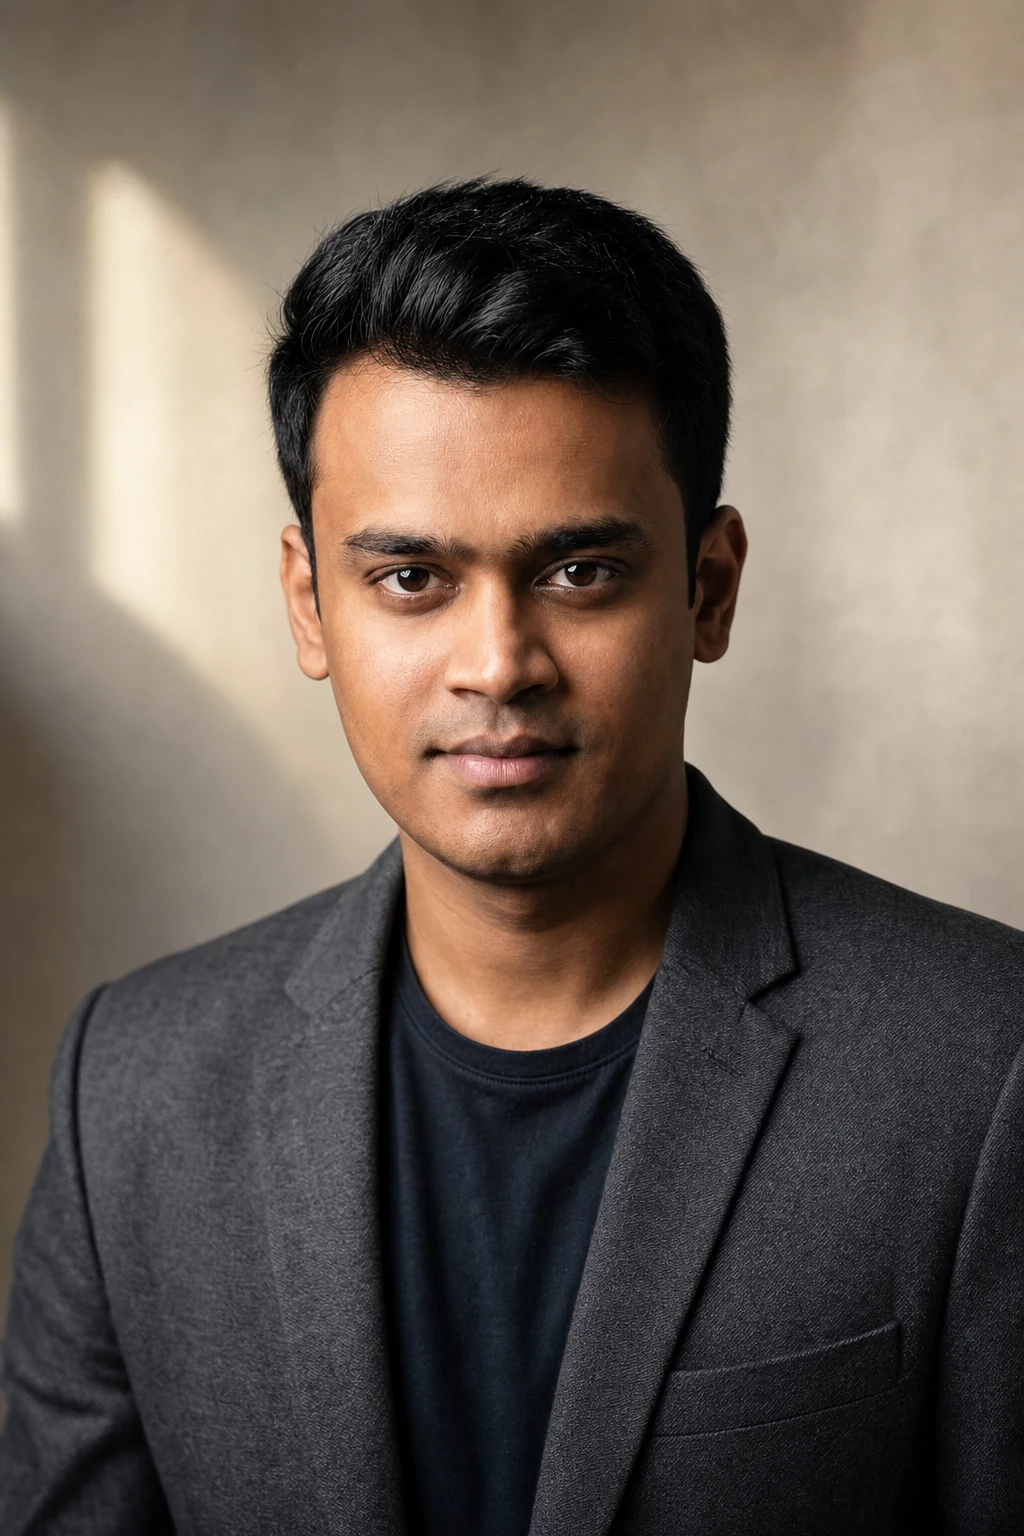
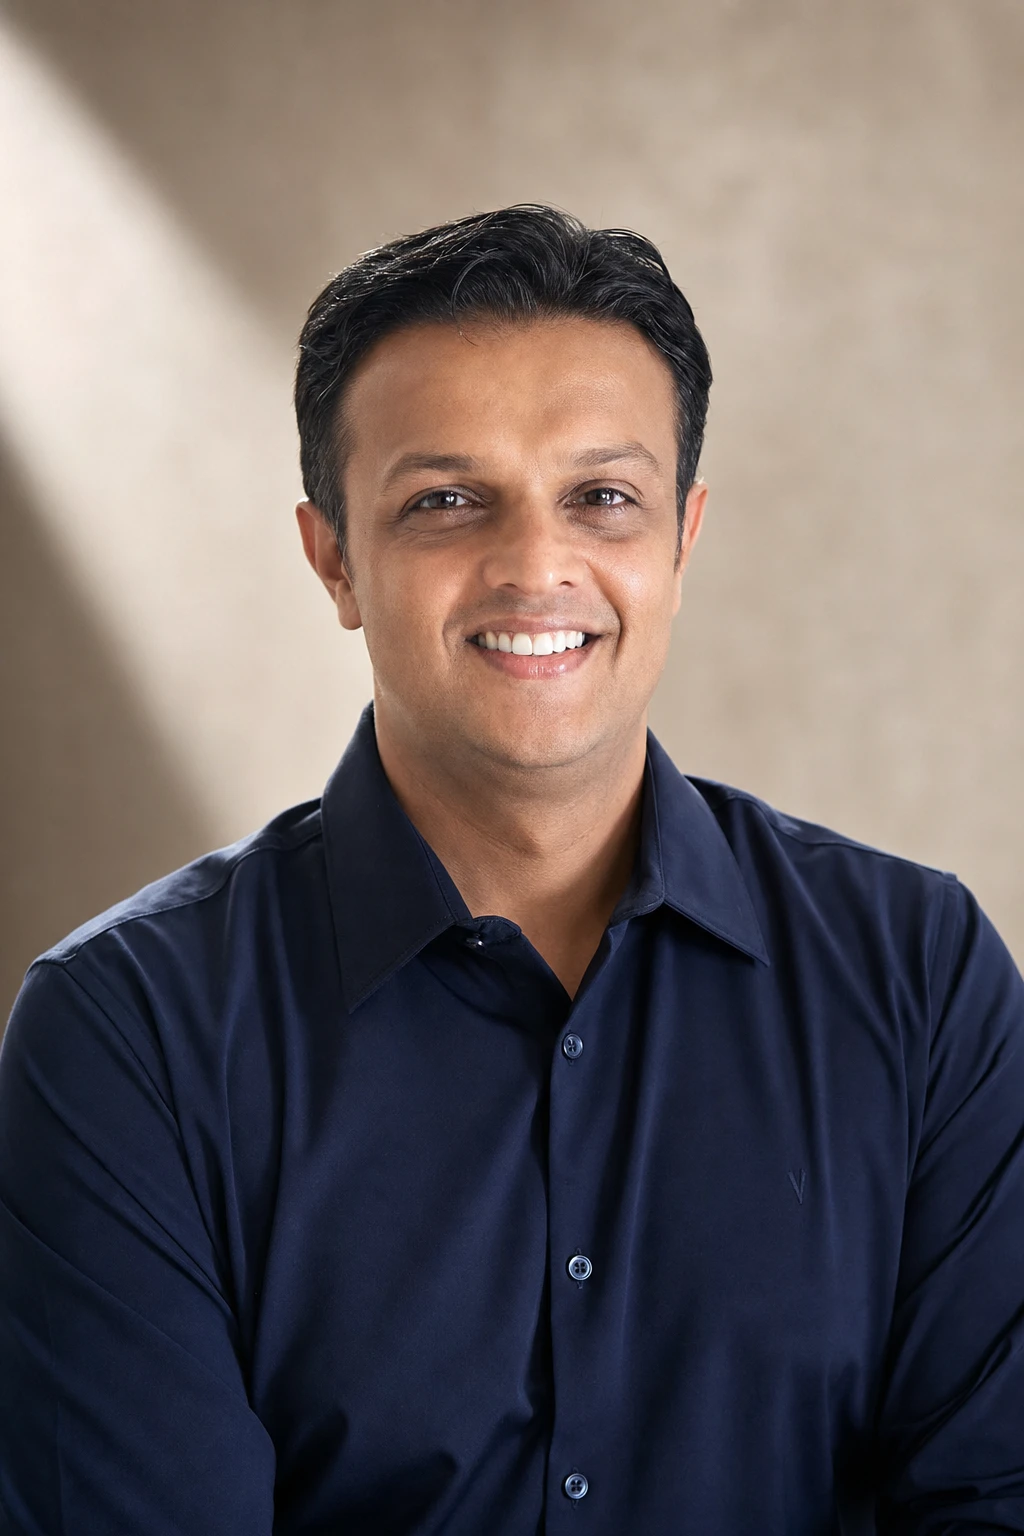
about: fix Jesal portraits — wrong source likeness in previous pass
The previous portraits were generated off the wrong source photo (a stand-
in headshot left in Downloads). Both .webp files have been regenerated
against Jesal's actual reference photo (navy button-down shirt, friendly
smile, marble lobby — kept locally in .assets/, not committed).

- gen_jesal_factory.py / gen_jesal_forbes.py: REFERENCE now points at
  jesal_source.jpg and the wardrobe prompt language is rewritten to
  describe the navy button-down + dark trousers + black belt instead of
  the previous charcoal-blazer-over-t-shirt mistake. The expression cue
  now anchors to the warm easy smile in the actual reference rather than
  to a "considered founder gaze".

- public/concepts/jesal_factory.webp / jesal_forbes.webp: refreshed.

diff --git a/scripts/gen_jesal_forbes.py b/scripts/gen_jesal_forbes.py
@@ -8,16 +8,20 @@ from _lib_openai_image import edit
 
 ROOT = os.path.abspath(os.path.join(os.path.dirname(__file__), ".."))
 
-REFERENCE = os.path.join(ROOT, ".assets", "jesal_source.png")
+REFERENCE = os.path.join(ROOT, ".assets", "jesal_source.jpg")
 OUT_PATH = os.path.join(ROOT, "src/frontend/public/concepts/jesal_forbes.webp")
 
 PROMPT = (
     "A Forbes-magazine cover-style editorial portrait of the same man as in the input photo. "
-    "His face, hair, build, skin tone, and identity are preserved exactly from the reference. "
-    "He wears the same charcoal-gray blazer over a dark t-shirt as in the reference.\n\n"
+    "His face, hair (short, brushed back), build (early-thirties Indian man, medium build), "
+    "skin tone, and identity are preserved exactly from the reference. He wears the same "
+    "dark navy button-down shirt with the collar open, exactly as in the reference photo. "
+    "The same warm friendly smile from the reference is preserved — open and approachable, "
+    "the eyes warm.\n\n"
     "Composition: tight three-quarter frame from chest up, eyes meeting the lens directly. "
-    "Expression: warm, intelligent, calmly confident — the considered gaze of a founder who is "
-    "talking about a long project, not posing. A faint, restrained smile, more in the eyes than the mouth.\n\n"
+    "Expression: the same warm easy smile as in the reference photo — confident, "
+    "approachable, the considered gaze of a founder who is comfortable in his own "
+    "company.\n\n"
     "Lighting: a single large soft-box positioned upper-left at about 45 degrees creates gentle "
     "modeling on the face with a clean catchlight in both eyes; a low-bounce fill from the right "
     "opens the shadow side without flattening; a subtle hair-light separates him cleanly from the background.\n\n"

diff --git a/scripts/gen_jesal_factory.py b/scripts/gen_jesal_factory.py
@@ -9,17 +9,20 @@ from _lib_openai_image import edit  # noqa: E402
 
 REPO = Path(__file__).resolve().parent.parent
 
-REFERENCE = REPO / ".assets" / "jesal_source.png"
+REFERENCE = REPO / ".assets" / "jesal_source.jpg"
 OUT_PATH = REPO / "src" / "frontend" / "public" / "concepts" / "jesal_factory.webp"
 
 PROMPT = (
     "A documentary editorial portrait of the same man as in the input photo, "
     "photographed inside a sophisticated water-technology factory floor that doubles "
     "as a small clean-room laboratory. The man stands three-quarter angle, centered, "
-    "with calm assured posture — one hand resting lightly on a polished stainless rail, "
-    "the other relaxed at his side. He wears the same charcoal-gray blazer over a dark "
-    "t-shirt as in the reference photo. His face, build, hair, skin tone, and overall "
-    "identity are preserved exactly from the reference.\n\n"
+    "with calm assured posture and a warm easy smile (matching his expression in the "
+    "reference) — one hand resting lightly on a polished stainless rail, the other "
+    "relaxed at his side or in his pocket. He wears the same dark navy button-down "
+    "shirt with the collar open and dark trousers with a black belt, exactly as in "
+    "the reference photo. His face, hair (short, brushed back), build (early-thirties "
+    "Indian man, medium build), skin tone, and overall identity are preserved exactly "
+    "from the reference. The warm friendly smile is preserved exactly.\n\n"
     "The setting behind him:\n"
     "- Mid-ground left: a row of bright stainless-steel cylindrical electrolysis chambers "
     "being assembled by two or three technicians in clean white coats and disposable hair "
